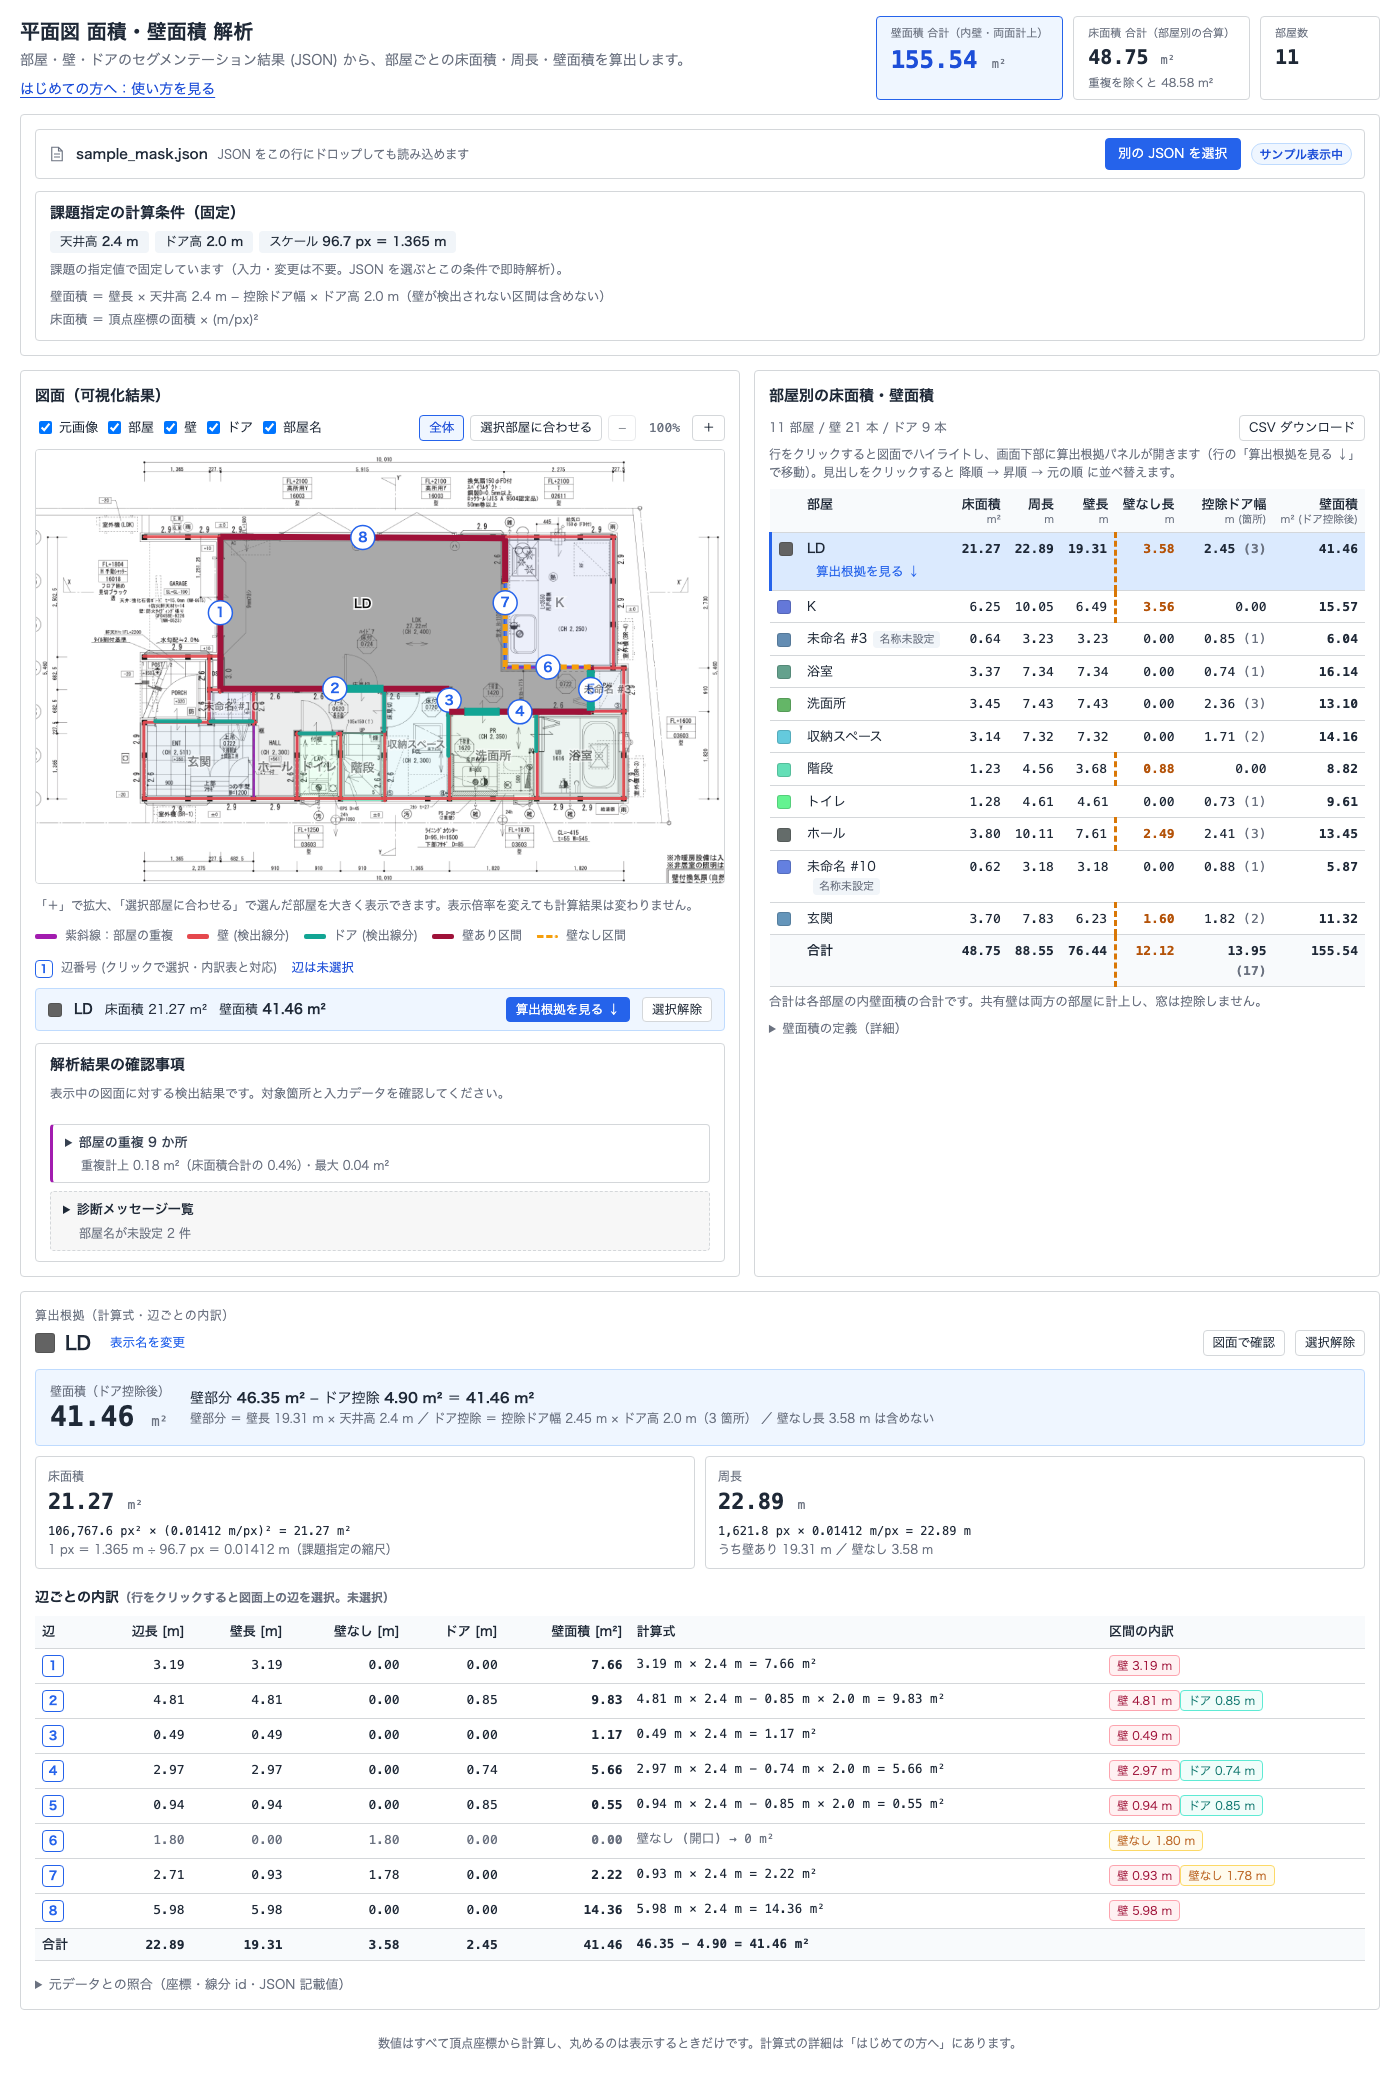
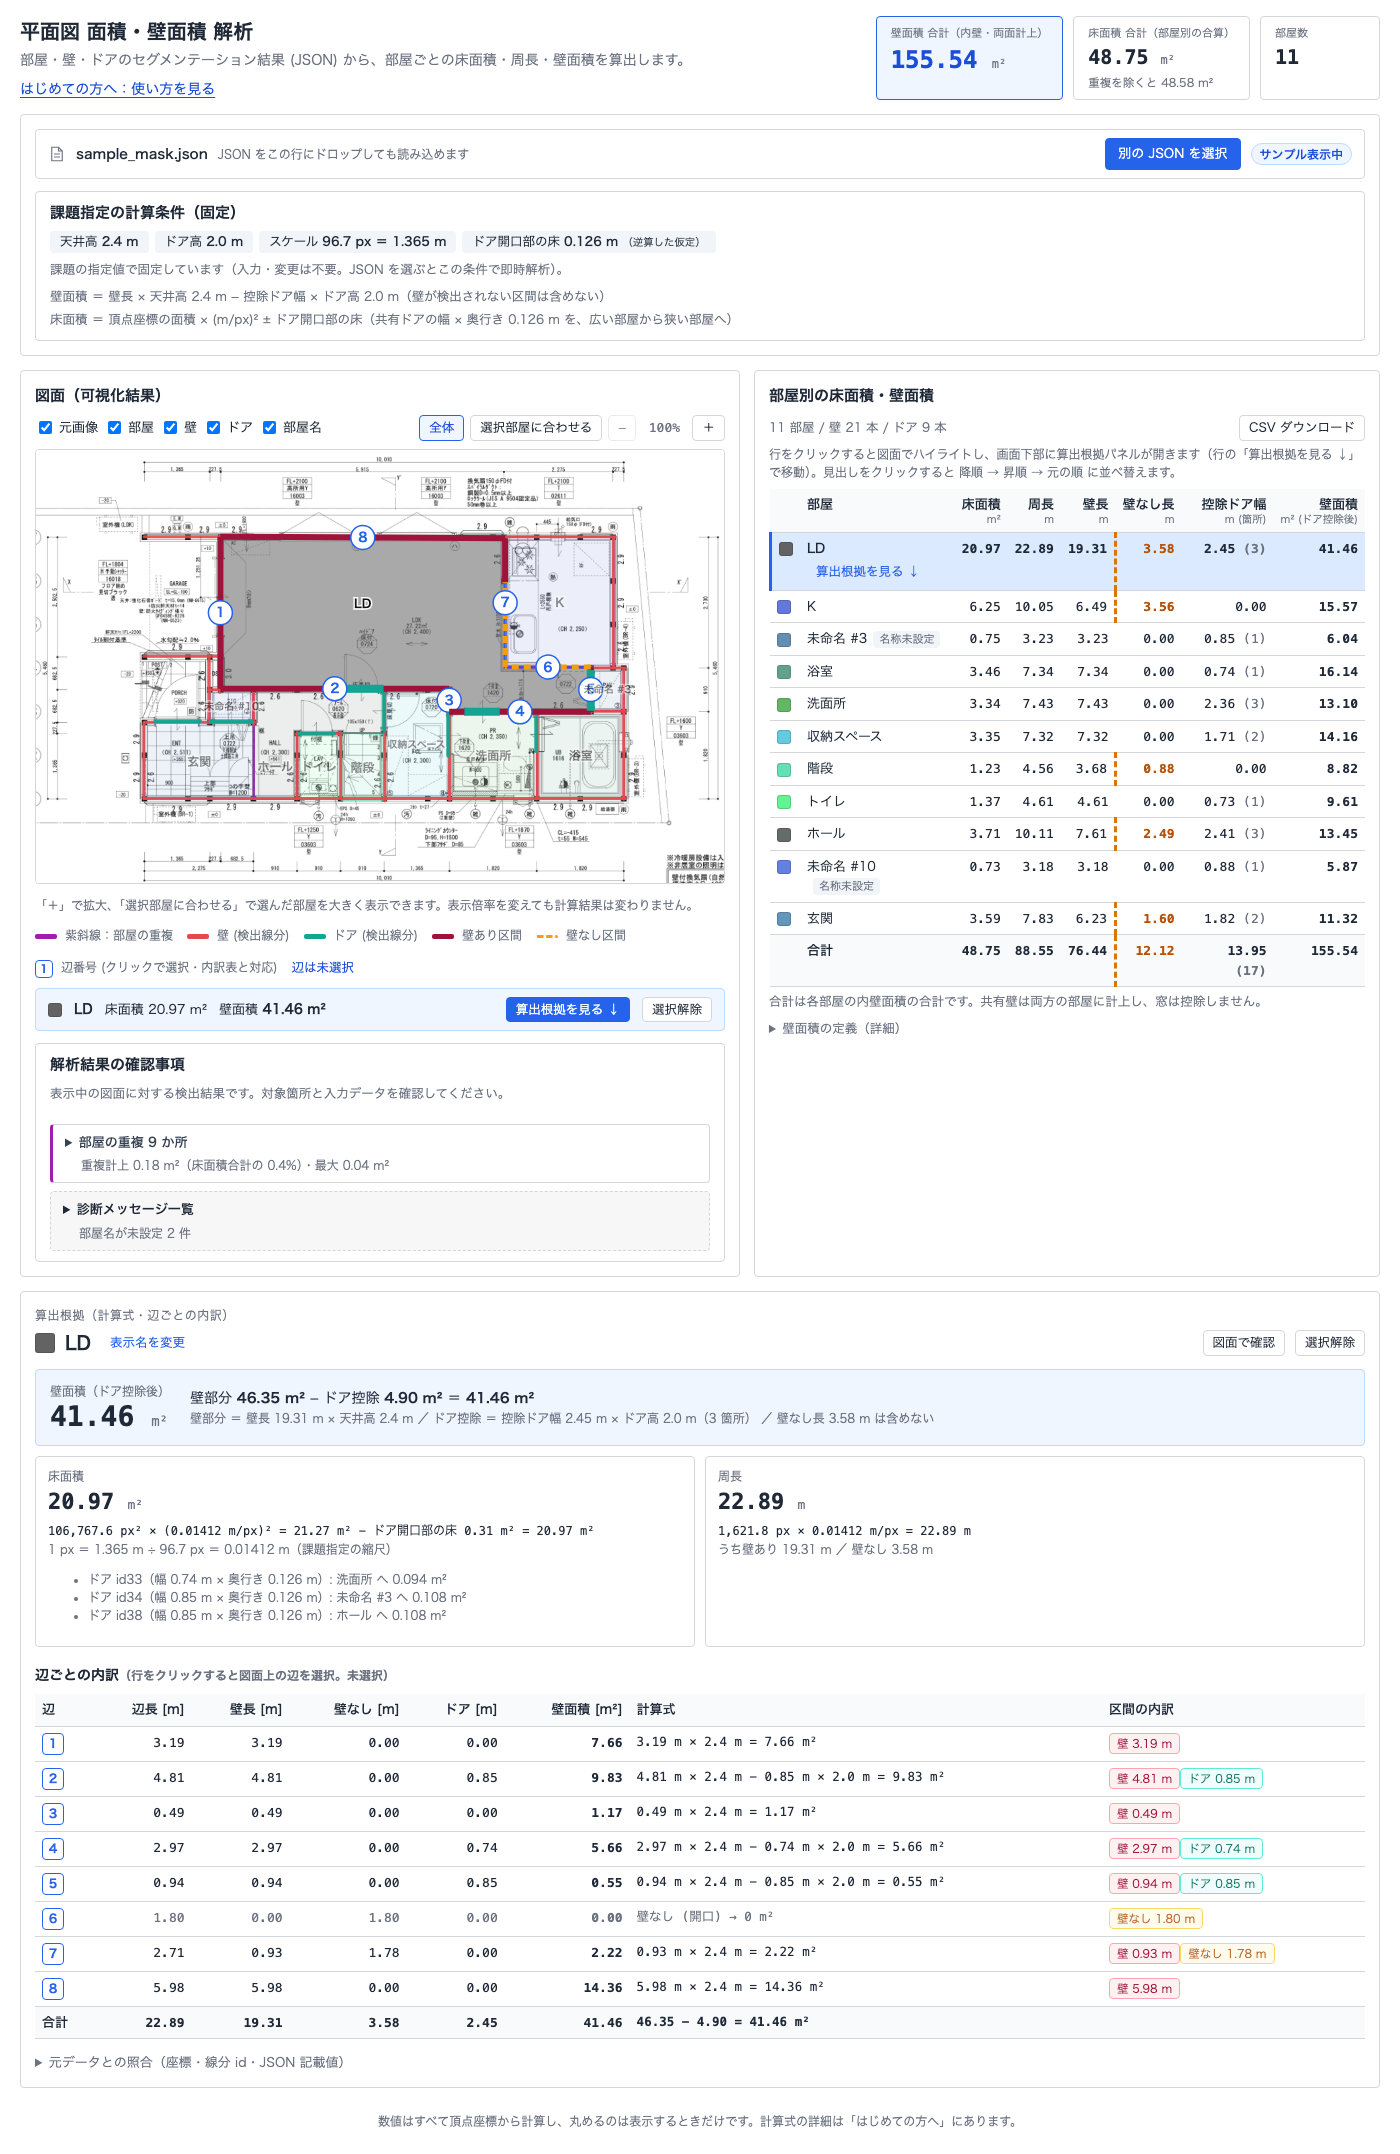
READMEのスクリーンショット2枚を現在の画面に差し替え、デプロイ日を更新
feature/kimura (#105) の README.md と画像を main に反映。

diff --git a/README.md b/README.md
@@ -2,7 +2,7 @@
 
 > `main` ブランチには説明資料だけを置いています。アプリ本体は [feature/kimura](https://github.com/Kimurist2024/KKG-kadai/tree/feature/kimura) にあります。以下の起動手順は同ブランチをチェックアウトし、`floorplan-analyzer/` で実行してください（`.claude/scripts/` のコマンドだけはリポジトリ直下で実行します）。
 
-公開サイト: https://floorplan-analyzer-taupe.vercel.app （2026-09-21 にデプロイし、同梱サンプルの解析結果がローカルと表示桁で一致することを HTTP で確認しました）
+公開サイト: https://floorplan-analyzer-taupe.vercel.app （2026-09-22 にデプロイし、同梱サンプルの解析結果がローカルと表示桁で一致することを HTTP で確認しました）
 
 **部屋・壁・ドアのマスク JSON** を読み込み、部屋ごとの **床面積・周長・壁面積** を算出して、図面と表で確かめられる Web アプリです。
 
